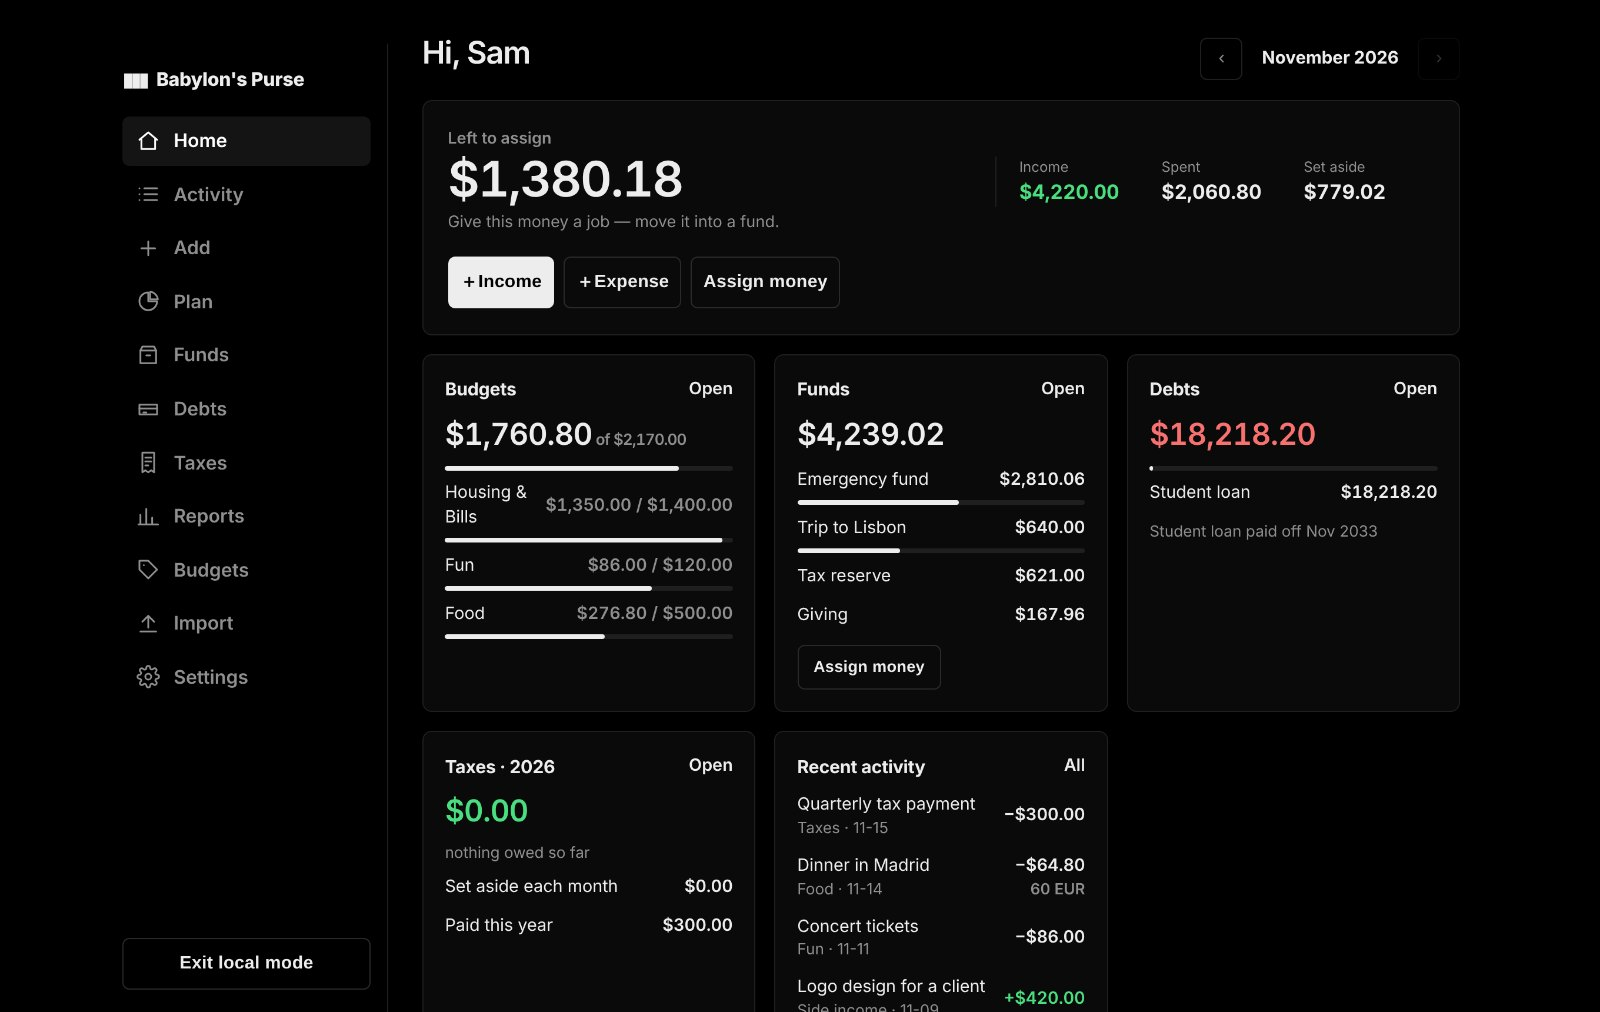
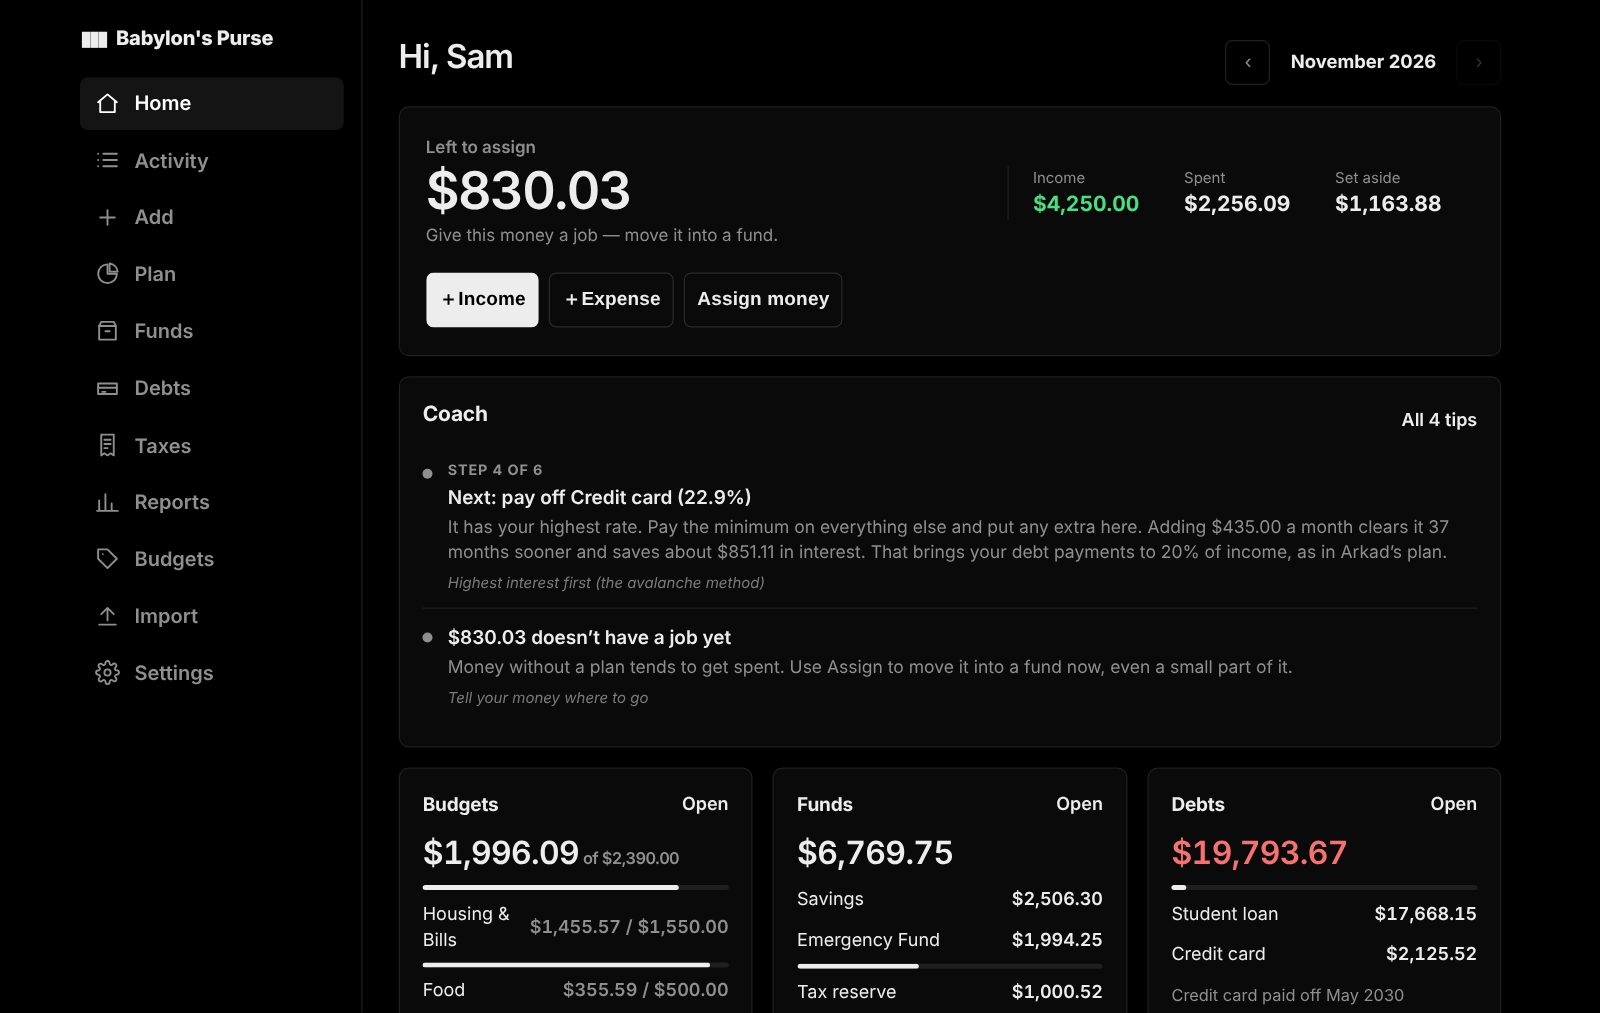
Fresh landing-page screenshots from the demo; landing copy for goals and repeats
- Screenshots now show the Coach, goals and current layout (demo data)
- Demo's quarterly tax payment lands in the right quarter
- Taxes: space between the stat boxes and the progress bar

Claude-Session: https://claude.ai/code/session_01J6CngEhjZNNZUWR34rueLs

diff --git a/welcome.html b/welcome.html
@@ -118,7 +118,7 @@
         <a class="btn btn-lg" href="./index.html?demo=1">Try the demo</a>
       </div>
       <p class="fine">No bank login needed. The demo uses sample data, so you can look around before adding your own.</p>
-      <div class="shot"><img src="./assets/shot-home.jpg" alt="The Home board: money left to assign, income, spending, funds, debts and taxes" width="1600" height="1012" /></div>
+      <div class="shot"><img src="./assets/shot-home.jpg" alt="The Home board: money left to assign, income, spending, funds, debts and taxes" width="1600" height="1013" /></div>
     </div>
 
     <section id="how">
@@ -144,13 +144,13 @@
             <li><b>Taxes for any country.</b> Use one rate or your own brackets, with a tax year starting in any month.</li>
           </ul>
         </div>
-        <div class="shot"><img src="./assets/shot-plan.jpg" alt="The money plan: rules that split income into funds" width="1600" height="1012" loading="lazy" /></div>
+        <div class="shot"><img src="./assets/shot-plan.jpg" alt="The money plan: rules that split income into funds" width="1600" height="1013" loading="lazy" /></div>
       </div>
     </section>
 
     <section>
       <div class="wrap split rev">
-        <div class="shot"><img src="./assets/shot-taxes.jpg" alt="The tax estimate: owed so far, paid, set aside monthly" width="1600" height="1012" loading="lazy" /></div>
+        <div class="shot"><img src="./assets/shot-taxes.jpg" alt="The tax estimate: owed so far, paid, set aside monthly" width="1600" height="1013" loading="lazy" /></div>
         <div class="text">
           <h2>No surprise tax bill.</h2>
           <p class="sub">Mark which income already has tax taken out and which doesn't. The app estimates what you'll owe and tells you how much to set aside each month.</p>
@@ -169,10 +169,10 @@
         <p class="sub">Only the parts you switch on appear. Turn any of them off later and your data is kept.</p>
         <div class="grid">
           <div class="card"><h3>Budgets</h3><p>Start with three categories and add your own. Unused money can roll over to next month.</p></div>
-          <div class="card"><h3>Funds</h3><p>Emergency fund, giving, goals. Interest is tracked whether it's in a savings account or as cash.</p></div>
+          <div class="card"><h3>Funds &amp; goals</h3><p>Emergency fund, giving, a trip. Pick a date and see how much to save each month, and whether you're on track.</p></div>
           <div class="card"><h3>Debts</h3><p>Built on your minimum payment. Pay extra and it shows your new payoff date.</p></div>
           <div class="card"><h3>Passive income</h3><p>Dividends, royalties, rentals, a side business. See if each one is behind or ahead.</p></div>
-          <div class="card"><h3>Recurring</h3><p>Enter rent, salary or subscriptions once and they're logged every month.</p></div>
+          <div class="card"><h3>Recurring</h3><p>It spots charges that repeat, like rent, salary and Netflix, and logs them every month. It also totals your subscriptions.</p></div>
           <div class="card"><h3>Bank import</h3><p>Use the CSV or OFX file your bank already gives you. Categories are learned from how you sort them.</p></div>
           <div class="card"><h3>Reports</h3><p>A month in review, a 12-month trend, savings rate and your top categories.</p></div>
           <div class="card"><h3>Your data</h3><p>Back up or export everything in one tap. Use it with an account or entirely on your device.</p></div>

diff --git a/js/demo.js b/js/demo.js
@@ -117,7 +117,7 @@ export function demoData(today) {
   });
   // A trip abroad last month, and a quarterly tax payment.
   tx(months[2], 26, 'expense', 60, 'Food', 'Dinner in Madrid', { currency: 'EUR', usd: 64.8 });
-  tx(months[2], 15, 'expense', 300, 'Taxes', 'Quarterly tax payment');
+  tx(months[1], 15, 'expense', 300, 'Taxes', 'Quarterly tax payment');
 
   transactions.sort((a, b) => b.date.localeCompare(a.date));
 

diff --git a/css/styles.css b/css/styles.css
@@ -999,3 +999,4 @@ input[type="range"] { width: 100%; min-height: 32px; padding: 0; background: tra
 .undo-title { font-weight: 700; }
 .undo-actions { display: flex; gap: 0.4rem; flex: none; }
 button:focus-visible, a:focus-visible, summary:focus-visible { outline: 2px solid var(--accent); outline-offset: 2px; }
+.stat-grid + .progress { margin-top: 1rem; }
